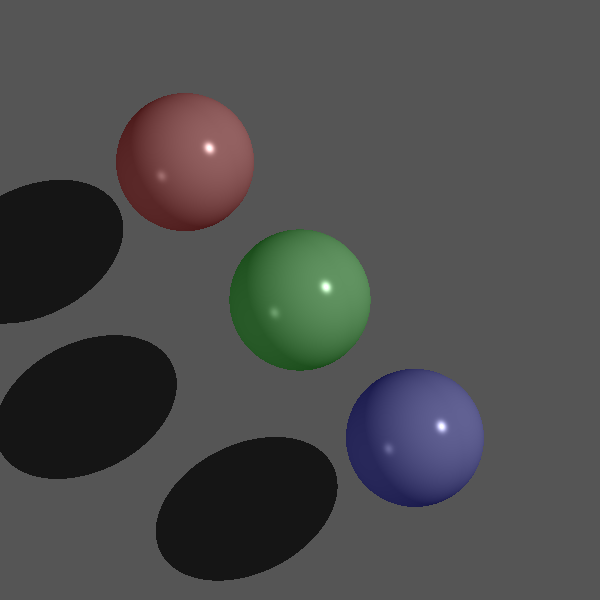
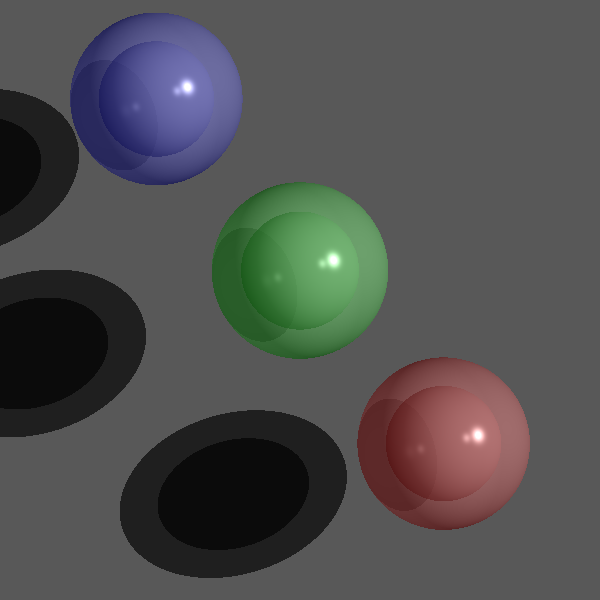
targil 7

diff --git a/Tests/elements/ReflectionRefractionTests.java b/Tests/elements/ReflectionRefractionTests.java
@@ -12,7 +12,7 @@ import scene.Scene;
 
 
 /**
- * 
+ *
  * Tests for reflection and transparency functionality, test for partial shadows
  * (with transparency)
  *
@@ -47,9 +47,11 @@ public class ReflectionRefractionTests {
         render.renderImage();
         render.writeToImage();
     }
+
     /**
      * Produce a picture of a sphere lighted by a spot light
      */
+
     @Test
     public void twoSpheresOnMirrors() {
         Camera camera = new Camera(new Point3D(0, 0, 10000), new Vector(0, 0, -1), new Vector(0, 1, 0)) //
@@ -90,6 +92,7 @@ public class ReflectionRefractionTests {
      * Produce a picture of a two triangles lighted by a spot light with a partially
      * transparent Sphere producing partial shadow
      */
+
     @Test
     public void trianglesTransparentSphere() {
         Camera camera = new Camera(new Point3D(0, 0, 1000), new Vector(0, 0, -1), new Vector(0, 1, 0)) //
@@ -117,6 +120,104 @@ public class ReflectionRefractionTests {
 
         render.renderImage();
         render.writeToImage();
+    }
+
+    /**
+     * Our picture
+     */
+
+    @Test
+    public void picture()
+    {
+
+        Camera camera=new Camera(new Point3D(0, 0, -1000), new Vector(0, 0, 1), new Vector(0, -1, 0))
+                .setViewPlaneSize(200, 200).setDistance(1000);
+        //scene.setAmbientLight(new AmbientLight(new Color(java.awt.Color.WHITE), 0.15));
+
+        scene.geometries.add(
+
+                new Sphere(30, new Point3D(-50, -70, 45)) //
+                        .setEmission(new Color(0,0,20)) //
+                        .setMaterial(new Material().setKd(0.3).setKs(0.7).setShininess(100).setKt(0.6)), //
+                new Sphere(20, new Point3D(-50, -70, 45)) //
+                        .setEmission(new Color(0,0,20)) //
+                        .setMaterial(new Material().setKd(0.3).setKs(0.7).setShininess(100).setKt(0.6)), //
+                new Sphere(30, new Point3D(0, -10, 20)) //
+                        .setEmission(new Color(0,20,0)) //
+                        .setMaterial(new Material().setKd(0.3).setKs(0.7).setShininess(100).setKt(0.6)), //
+                new Sphere(20, new Point3D(0, -10, 20)) //
+                        .setEmission(new Color(0,20,0)) //
+                        .setMaterial(new Material().setKd(0.3).setKs(0.7).setShininess(100).setKt(0.6)), //
+                new Sphere(30, new Point3D(50, 50, 45)) //
+                        .setEmission(new Color(20,0,0)) //
+                        .setMaterial(new Material().setKd(0.3).setKs(0.7).setShininess(100).setKt(0.6)), //
+                new Sphere(20, new Point3D(50, 50, 45)) //
+                        .setEmission(new Color(20,0,0)) //
+                        .setMaterial(new Material().setKd(0.3).setKs(0.7).setShininess(100).setKt(0.6)), //
+                new Plane(new Point3D(0, 0, 120), new Vector(0, 0, 1)) //
+                        .setEmission(new Color(java.awt.Color.BLACK)) //
+                        .setMaterial(new Material().setKd(0.5).setKs(0.5).setShininess(1200).setKt(0.8)) //
+        );
+
+        scene.lights.add(new DirectionalLight(new Color(java.awt.Color.WHITE), new Vector(-1,0.3,1)));//
+
+        ImageWriter imageWriter = new ImageWriter("picture", 600, 600);
+        Render render = new Render() //
+                .setImageWriter(imageWriter) //
+                .setCamera(camera) //
+                .setRayTracer(new BasicRayTracer(scene));
+
+        render.renderImage();
+        render.writeToImage();
+
+    }
+
+    /**
+     * The picture from another angle
+     */
+
+    @Test
+    public void pictureMove()
+    {
+        Camera camera=new Camera(new Point3D(300, -10, -1800), new Vector(-0.1, 0, 0.8), new Vector(0, -1, 0))
+                .setViewPlaneSize(200, 200).setDistance(1000);
+
+        scene.geometries.add(
+
+                new Sphere(30, new Point3D(-50, -70, 45)) //
+                        .setEmission(new Color(0,0,20)) //
+                        .setMaterial(new Material().setKd(0.3).setKs(0.7).setShininess(100).setKt(0.6)), //
+                new Sphere(20, new Point3D(-50, -70, 45)) //
+                        .setEmission(new Color(0,0,20)) //
+                        .setMaterial(new Material().setKd(0.3).setKs(0.7).setShininess(100).setKt(0.6)), //
+                new Sphere(30, new Point3D(0, -10, 20)) //
+                        .setEmission(new Color(0,20,0)) //
+                        .setMaterial(new Material().setKd(0.3).setKs(0.7).setShininess(100).setKt(0.6)), //
+                new Sphere(20, new Point3D(0, -10, 20)) //
+                        .setEmission(new Color(0,20,0)) //
+                        .setMaterial(new Material().setKd(0.3).setKs(0.7).setShininess(100).setKt(0.6)), //
+                new Sphere(30, new Point3D(50, 50, 45)) //
+                        .setEmission(new Color(20,0,0)) //
+                        .setMaterial(new Material().setKd(0.3).setKs(0.7).setShininess(100).setKt(0.6)), //
+                new Sphere(20, new Point3D(50, 50, 45)) //
+                        .setEmission(new Color(20,0,0)) //
+                        .setMaterial(new Material().setKd(0.3).setKs(0.7).setShininess(100).setKt(0.6)), //
+                new Plane(new Point3D(0, 0, 120), new Vector(0, 0, 1)) //
+                        .setEmission(new Color(java.awt.Color.BLACK)) //
+                        .setMaterial(new Material().setKd(0.5).setKs(0.5).setShininess(1200).setKt(0.8)) //
+        );
+
+        scene.lights.add(new DirectionalLight(new Color(java.awt.Color.WHITE), new Vector(-1,0.3,1)));//
+
+        ImageWriter imageWriter = new ImageWriter("pictureMove", 600, 600);
+        Render render = new Render() //
+                .setImageWriter(imageWriter) //
+                .setCamera(camera) //
+                .setRayTracer(new BasicRayTracer(scene));
+
+        render.renderImage();
+        render.writeToImage();
+
     }
 }
 

diff --git a/Tests/elements/ShadowTests.java b/Tests/elements/ShadowTests.java
@@ -71,7 +71,6 @@ public class ShadowTests {
         render.writeToImage();
     }
 
-
     @Test
     public void sphereTriangleInitial3() {
         scene.geometries.add( //
@@ -120,8 +119,6 @@ public class ShadowTests {
         render.writeToImage();
     }
 
-
-
     @Test
     public void sphereTriangleInitial5() {
         scene.geometries.add( //
@@ -143,10 +140,6 @@ public class ShadowTests {
         render.renderImage();
         render.writeToImage();
     }
-
-
-
-
 
     /**
      * Produce a picture of a two triangles lighted by a spot light with a Sphere
@@ -175,93 +168,6 @@ public class ShadowTests {
                 .setRayTracer(new BasicRayTracer(scene));
         render.renderImage();
         render.writeToImage();
-    }
-
-
-
-
-
-    @Test
-    public void picture()
-    {
-
-        Camera camera=new Camera(new Point3D(0, 0, -1000), new Vector(0, 0, 1), new Vector(0, 1, 0))
-                .setViewPlaneSize(250, 250).setDistance(1000);
-        //scene.setAmbientLight(new AmbientLight(new Color(java.awt.Color.WHITE), 0.15));
-
-
-        scene.geometries.add(
-
-                new Sphere(30, new Point3D(-50, -60, 45)) //
-                        .setEmission(new Color(0,0,20)) //
-                        .setMaterial(new Material().setKd(0.3).setKs(0.7).setShininess(100).setKt(0.5)), //
-                new Sphere(30, new Point3D(0, 0, 20)) //
-                        .setEmission(new Color(0,20,0)) //
-                        .setMaterial(new Material().setKd(0.3).setKs(0.7).setShininess(100).setKt(0.5)), //
-                new Sphere(30, new Point3D(50, 60, 45)) //
-                        .setEmission(new Color(20,0,0)) //
-                        .setMaterial(new Material().setKd(0.3).setKs(0.7).setShininess(100).setKt(0.5)), //
-                new Plane(new Point3D(0, 0, 120), new Vector(0, 0, 1)) //
-                        .setEmission(new Color(java.awt.Color.BLACK)) //
-                        .setMaterial(new Material().setKd(0.5).setKs(0.5).setShininess(1200).setKt(0.8)) //
-        );
-
-
-        scene.lights.add(new DirectionalLight(new Color(java.awt.Color.WHITE), new Vector(1,-0.5,1)));//
-               // .setKl(4E-4).setKq(2E-5));
-
-        ImageWriter imageWriter = new ImageWriter("picture", 600, 600);
-        Render render = new Render() //
-                .setImageWriter(imageWriter) //
-                .setCamera(camera) //
-                .setRayTracer(new BasicRayTracer(scene));
-
-        render.renderImage();
-        render.writeToImage();
-
-
-    }
-
-
-
-    @Test
-    public void pictureMove()
-    {
-
-        Camera camera=new Camera(new Point3D(200, -10, -1500), new Vector(-0.1, 0, 0.9), new Vector(0, -1, 0))
-                .setViewPlaneSize(200, 200).setDistance(1000);
-        //scene.setAmbientLight(new AmbientLight(new Color(java.awt.Color.WHITE), 0.15));
-
-
-        scene.geometries.add(
-
-                new Sphere(30, new Point3D(-50, -60, 45)) //
-                        .setEmission(new Color(0,0,20)) //
-                        .setMaterial(new Material().setKd(0.3).setKs(0.7).setShininess(100).setKt(0.5)), //
-                new Sphere(30, new Point3D(0, 0, 20)) //
-                        .setEmission(new Color(0,20,0)) //
-                        .setMaterial(new Material().setKd(0.3).setKs(0.7).setShininess(100).setKt(0.5)), //
-                new Sphere(30, new Point3D(50, 60, 45)) //
-                        .setEmission(new Color(20,0,0)) //
-                        .setMaterial(new Material().setKd(0.3).setKs(0.7).setShininess(100).setKt(0.5)), //
-                new Plane(new Point3D(0, 0, 120), new Vector(0, 0, 1)) //
-                        .setEmission(new Color(java.awt.Color.BLACK)) //
-                        .setMaterial(new Material().setKd(0.5).setKs(0.5).setShininess(1200).setKt(0.8)) //
-        );
-
-
-        scene.lights.add(new DirectionalLight(new Color(java.awt.Color.WHITE), new Vector(1,-0.5,1)));//
-
-        ImageWriter imageWriter = new ImageWriter("pictureMove", 600, 600);
-        Render render = new Render() //
-                .setImageWriter(imageWriter) //
-                .setCamera(camera) //
-                .setRayTracer(new BasicRayTracer(scene));
-
-        render.renderImage();
-        render.writeToImage();
-
-
     }
 }
 
